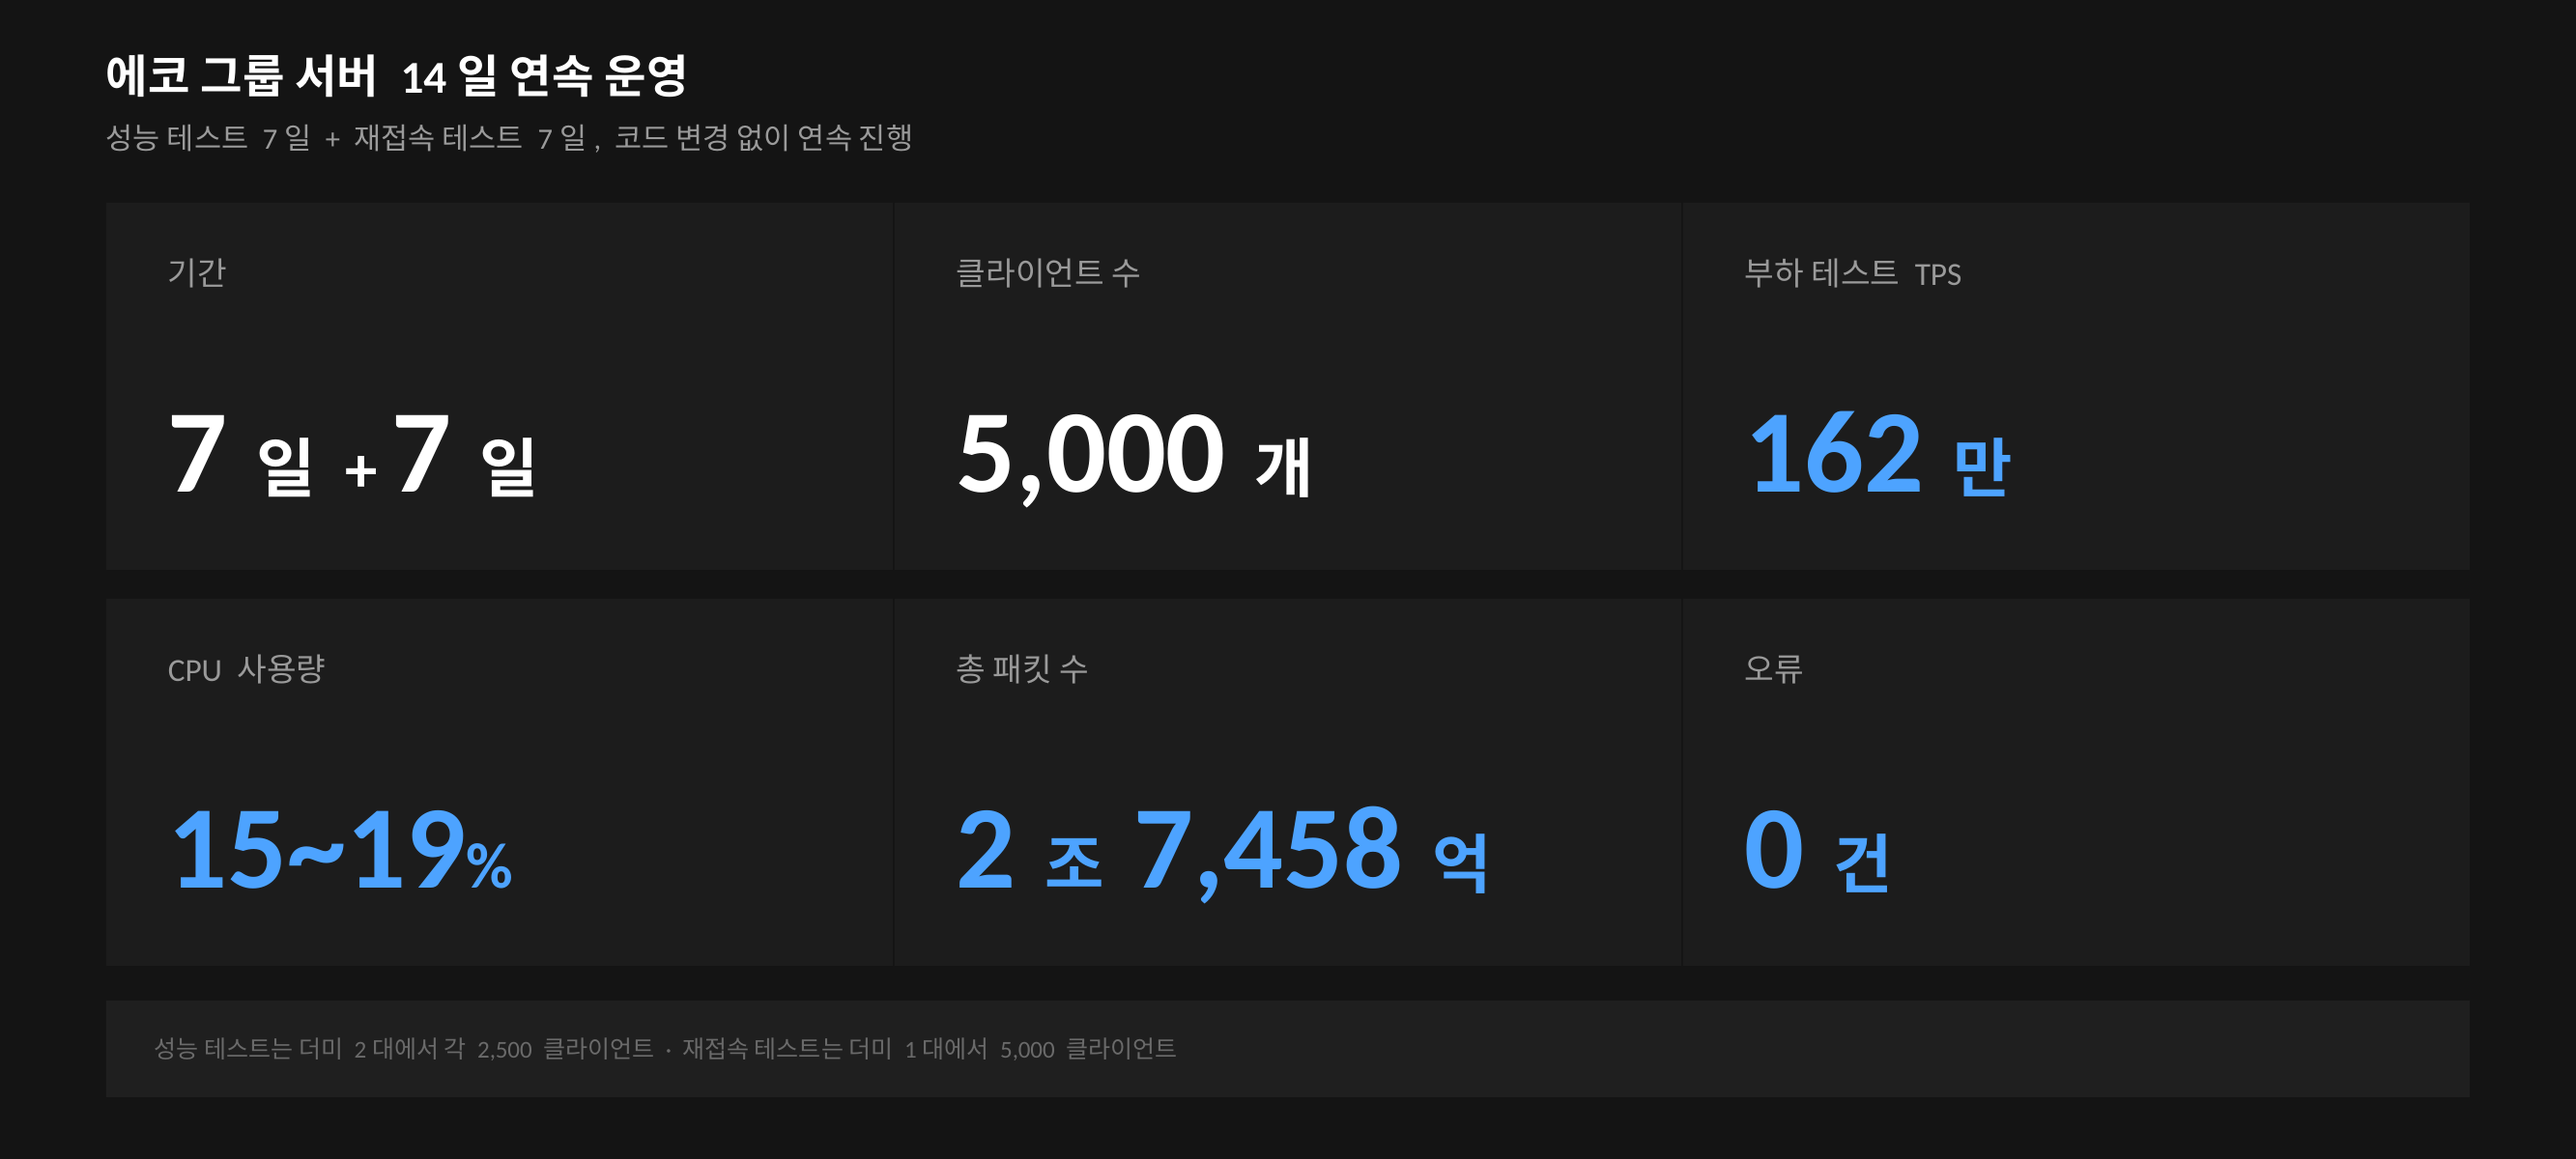
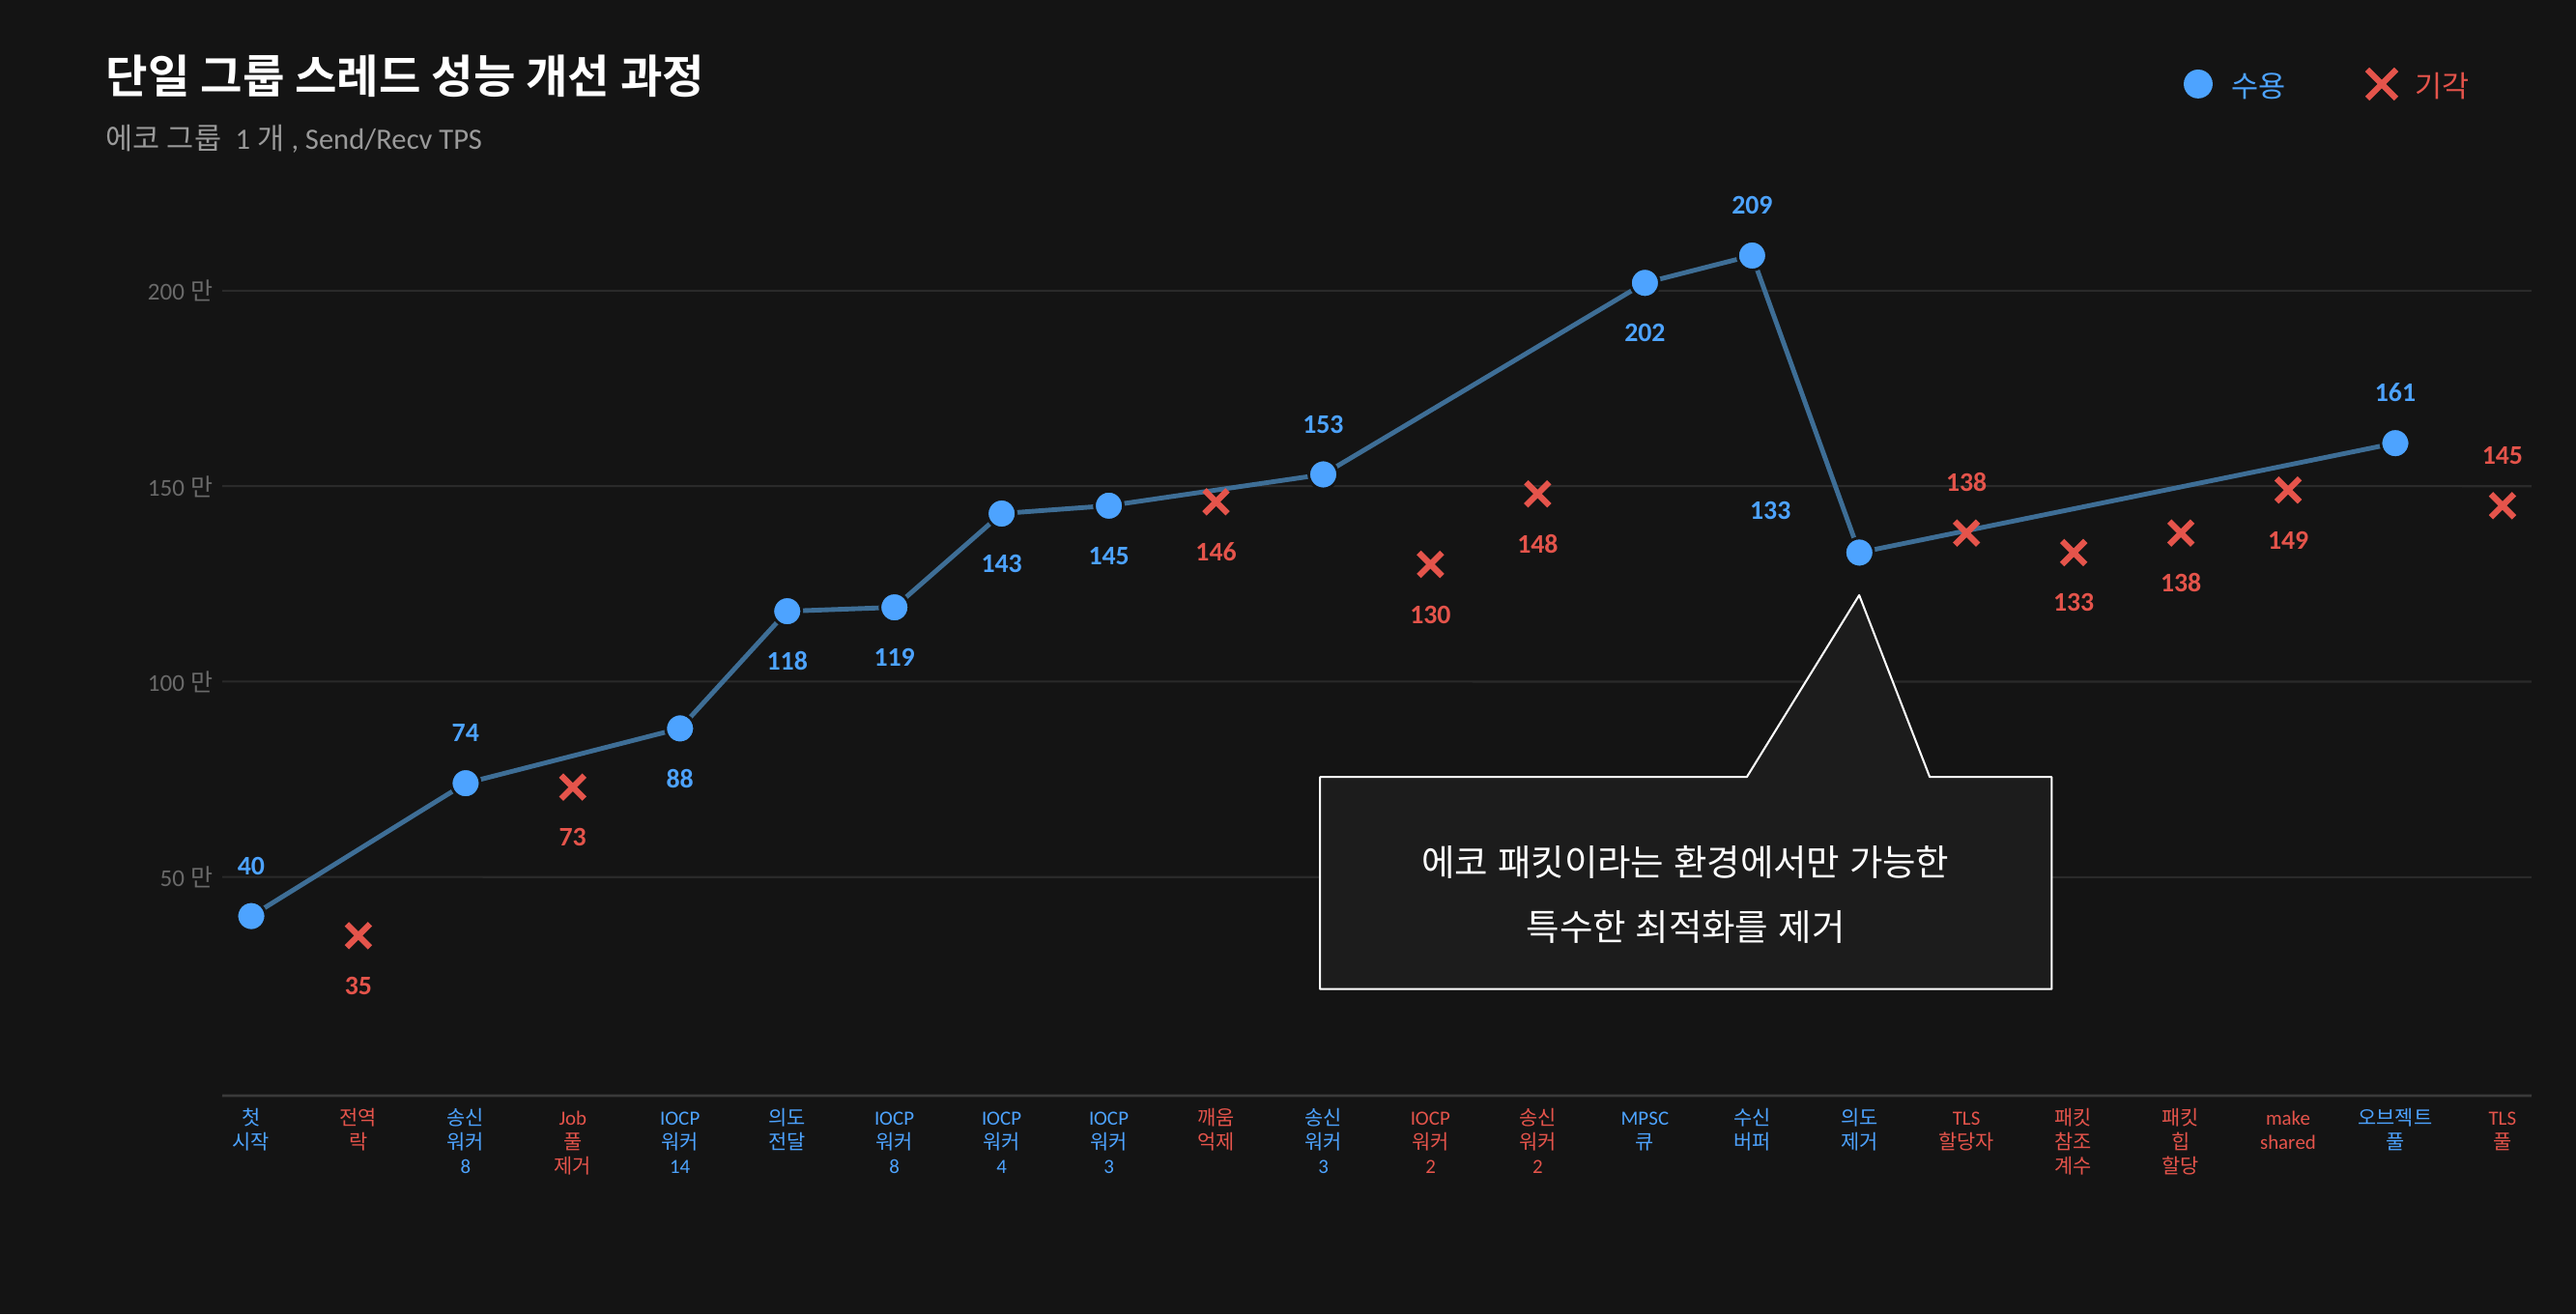
docs: update README.md

diff --git a/README.md b/README.md
@@ -9,21 +9,9 @@
 
 ## Highlight
 
-> ### 초기 설계 기준 에코 패킷 송/수신 각각 40만 TPS -> 7일간 평균 162만 TPS
->
-> 싱글 게임 스레드를 가정한 Echo 부하 테스트에서 처음 대비 약 **4.5배** 성능 개선
-
 ![하이라이트 슬라이드 1](documents/images/highlight_1.png)
 
-> ### 수 시간마다 로그인 토큰 실패 -> 7일 무중단 테스트 로그인 실패 0개
->
-> 로그인 서버와 채팅 서버의 분산 구조에서의 동시성과 순서 문제 추적의 기록
-
 ![하이라이트 슬라이드 2](documents/images/highlight_2.png)
-
-> ### 수 분마다 유령 세션/서버 프리징 발생 -> 7일 무중단 테스트 실행에서 유령 세션 0개
->
-> AI를 활용한 디버깅, Lock-free 큐의 문제 추적 과정의 기록
 
 ![하이라이트 슬라이드 3](documents/images/highlight_3.png)
 
